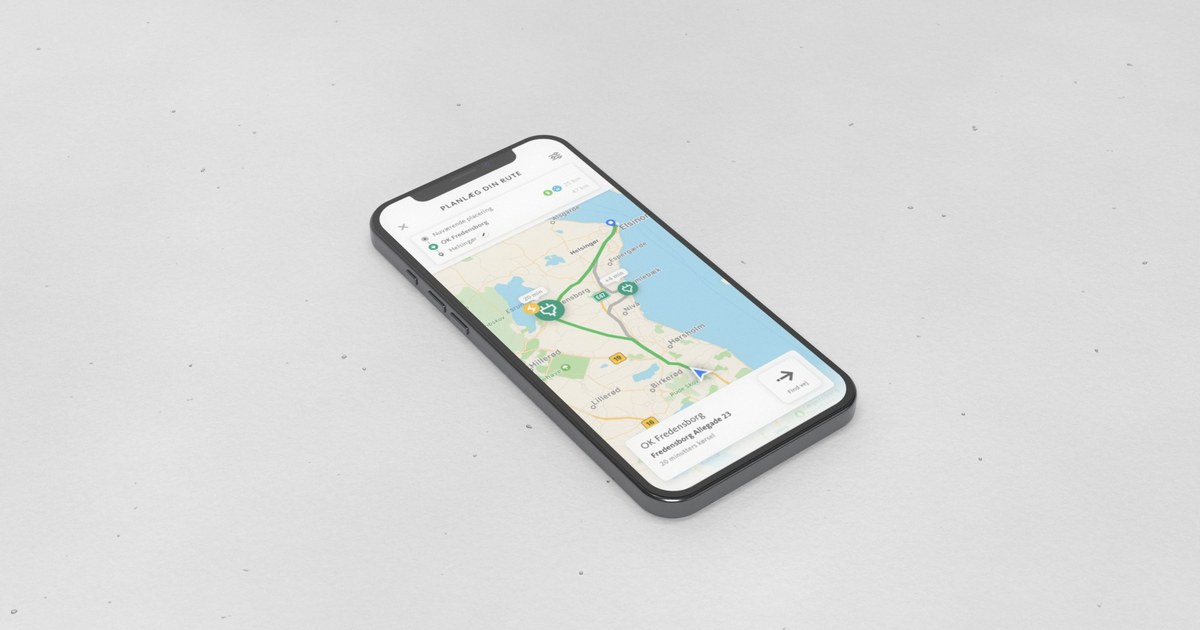
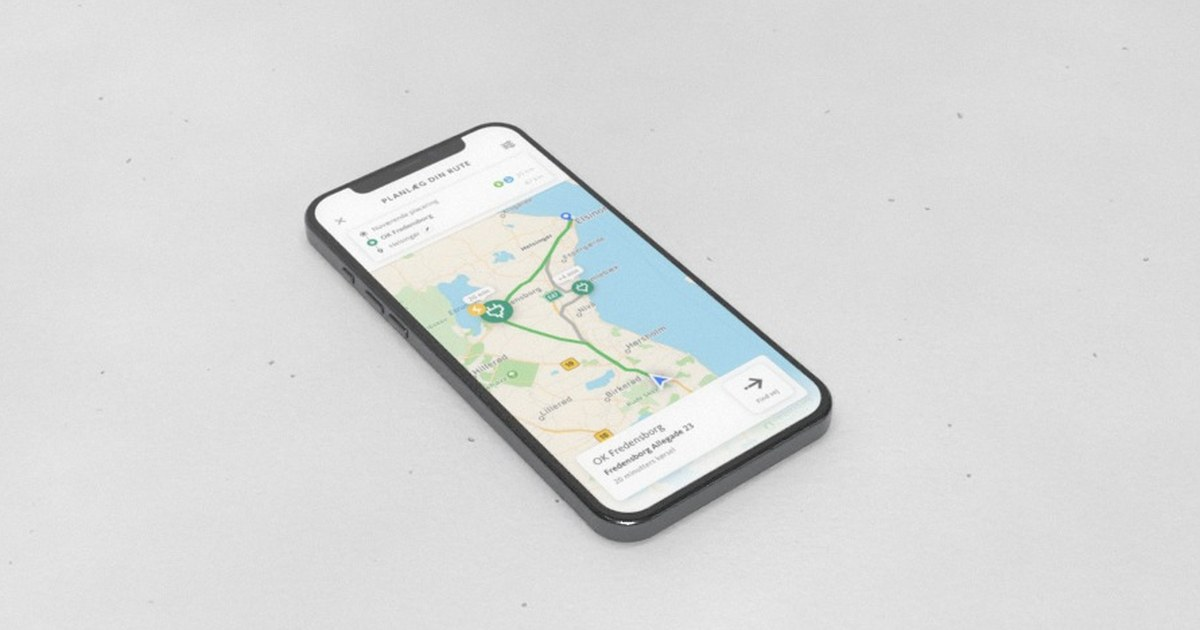
TV2 and OK: the header shot from the plate's own camera, so their pictures travel on a desk too (work in progress)
The two header pictures in this commit are test-quality stand-ins; the
full renders replace them before this is published.

Claude-Session: https://claude.ai/code/session_01TWSyw7ZJuA1HWZNDHNnh3M

Changed region(s): [[0.2467, 0.181, 0.74, 0.8746]]

diff --git a/css/styles.css b/css/styles.css
@@ -1591,24 +1591,19 @@ p:not(.crumb) a,
 
 /* A case's picture is the third: the plate on the work wall and the header
    of its case are one picture in two places, so it travels from the one to
-   the other, and its words go with it. The two tall plates do not make the
-   trip on a desk, where their header is a different, wider shot; below the
-   columns every plate and its header are the same cut, and all six go. */
+   the other, and its words go with it. */
 .case--economic > .case__cover, .hero--economic > .hero__cover { view-transition-name: cover-economic; }
 .case--trackman > .case__cover, .hero--trackman > .hero__cover { view-transition-name: cover-trackman; }
 .case--donkey > .case__cover, .hero--donkey > .hero__cover { view-transition-name: cover-donkey; }
 .case--theorg > .case__cover, .hero--theorg > .hero__cover { view-transition-name: cover-theorg; }
+.case--tv2 > .case__cover, .hero--tv2 > .hero__cover { view-transition-name: cover-tv2; }
+.case--ok > .case__cover, .hero--ok > .hero__cover { view-transition-name: cover-ok; }
 .case--economic > .case__caption, .hero--economic > .hero__caption { view-transition-name: words-economic; }
 .case--trackman > .case__caption, .hero--trackman > .hero__caption { view-transition-name: words-trackman; }
 .case--donkey > .case__caption, .hero--donkey > .hero__caption { view-transition-name: words-donkey; }
 .case--theorg > .case__caption, .hero--theorg > .hero__caption { view-transition-name: words-theorg; }
-
-@media (max-width: 1100px) {
-	.case--tv2 > .case__cover, .hero--tv2 > .hero__cover { view-transition-name: cover-tv2; }
-	.case--ok > .case__cover, .hero--ok > .hero__cover { view-transition-name: cover-ok; }
-	.case--tv2 > .case__caption, .hero--tv2 > .hero__caption { view-transition-name: words-tv2; }
-	.case--ok > .case__caption, .hero--ok > .hero__caption { view-transition-name: words-ok; }
-}
+.case--tv2 > .case__caption, .hero--tv2 > .hero__caption { view-transition-name: words-tv2; }
+.case--ok > .case__caption, .hero--ok > .hero__caption { view-transition-name: words-ok; }
 
 .case > .case__cover, .hero > .hero__cover { view-transition-class: travelling-cover; }
 .case > .case__caption, .hero > .hero__caption { view-transition-class: travelling-words; }
@@ -1668,4 +1663,6 @@ p:not(.crumb) a,
 	::view-transition-image-pair(cover-trackman) { --pull: 0.82; }
 	::view-transition-image-pair(cover-donkey) { --pull: 0.8; }
 	::view-transition-image-pair(cover-theorg) { --pull: 0.8; }
+	::view-transition-image-pair(cover-tv2) { --pull: 1; }
+	::view-transition-image-pair(cover-ok) { --pull: 1; }
 }

diff --git a/notes/building-to-learn/index.html b/notes/building-to-learn/index.html
@@ -34,7 +34,7 @@
 	<link rel="preload" href="../../fonts/switzer-300.woff2" as="font" type="font/woff2" crossorigin>
 	<link rel="preload" href="../../fonts/switzer-500.woff2" as="font" type="font/woff2" crossorigin>
 
-	<link rel="stylesheet" href="../../css/styles.css?v=4ba4c71d">
+	<link rel="stylesheet" href="../../css/styles.css?v=d16b122a">
 	<link rel="stylesheet" href="../notes.css?v=4695db5c">
 
 	<!-- The next page is built when a link is hovered or pressed, so the
@@ -87,7 +87,7 @@
 			<div class="col-8 stack measure">
 				<p>At e-conomic this work is called AI enablement, and my part of it has been the prototyping side. Not making prototypes: making the harness that lets the organisation learn faster, with prototypes built on the design system and the principles the system is built with.</p>
 				<p>The harness is wired to the design system on GitHub, and it explains the design system and its principles and patterns to any model before it draws. It is for PMs, UXers and product teams in general: you can get AI to create a prototype from an idea, a feature request or a PRD. A prototype built this way is an experiment wearing the product's own clothes: real enough to learn from, cheap enough to throw away when it has answered. That is the whole point of building to learn. The throwing away has to be painless, or you start defending the prototype instead of the user.</p>
-				<p>The page you are reading runs on the same architecture. One <a href="../../css/styles.css?v=4ba4c71d">stylesheet</a> as the truth, a <a href="../../system/">system page</a> that documents it, a check that fails anything outside it, and an AI building within those constraints. Teaching a machine your system turns out to be the same discipline as keeping one.</p>
+				<p>The page you are reading runs on the same architecture. One <a href="../../css/styles.css?v=d16b122a">stylesheet</a> as the truth, a <a href="../../system/">system page</a> that documents it, a check that fails anything outside it, and an AI building within those constraints. Teaching a machine your system turns out to be the same discipline as keeping one.</p>
 			</div>
 		</div>
 

diff --git a/notes/built-and-maintained-with-ai/index.html b/notes/built-and-maintained-with-ai/index.html
@@ -34,7 +34,7 @@
 	<link rel="preload" href="../../fonts/switzer-300.woff2" as="font" type="font/woff2" crossorigin>
 	<link rel="preload" href="../../fonts/switzer-500.woff2" as="font" type="font/woff2" crossorigin>
 
-	<link rel="stylesheet" href="../../css/styles.css?v=4ba4c71d">
+	<link rel="stylesheet" href="../../css/styles.css?v=d16b122a">
 	<link rel="stylesheet" href="../notes.css?v=4695db5c">
 
 	<!-- The next page is built when a link is hovered or pressed, so the
@@ -85,7 +85,7 @@
 		<div class="band">
 			<h2 class="col-4 stick label">The architecture</h2>
 			<div class="col-8 stack measure">
-				<p>The <a href="../../css/styles.css?v=4ba4c71d">stylesheet</a> holds every value of the design: the colours, the sizes, the spaces, the timing of the motion. Next to each value, a comment says why it is what it is.</p>
+				<p>The <a href="../../css/styles.css?v=d16b122a">stylesheet</a> holds every value of the design: the colours, the sizes, the spaces, the timing of the motion. Next to each value, a comment says why it is what it is.</p>
 				<p>The <a href="../../system/">documentation</a> is a page on the site. It stores no values of its own; when you open it, it reads the current ones out of the stylesheet and shows them. It cannot be out of date, the same way a mirror cannot show last week.</p>
 				<p>The checker is a small program that reads every page and stops any change that breaks a rule it can measure: a colour outside the palette, a space off the scale, a line of text wider than comfortable reading.</p>
 				<p>And the agent reads all of it before it builds. This is why the written words matter more than ever. Guidelines used to be reference material for people. When an AI does the building, they become what it decides with: why something exists, how it should work, what it should communicate, what a person should feel. A reason that never got written down is a reason the agent cannot build from.</p>

diff --git a/system/index.html b/system/index.html
@@ -23,7 +23,7 @@
 	<!-- The site's own stylesheet, not a copy of it. Every swatch, measurement
 	     and component below is rendered by the same rules the portfolio uses,
 	     so this page cannot describe something the site no longer does. -->
-	<link rel="stylesheet" href="../css/styles.css?v=4ba4c71d">
+	<link rel="stylesheet" href="../css/styles.css?v=d16b122a">
 	<link rel="stylesheet" href="./system.css?v=d435ed0d">
 
 	<script>document.documentElement.classList.remove('no-js');</script>

diff --git a/work/donkey/index.html b/work/donkey/index.html
@@ -34,7 +34,7 @@
 
 	<link rel="preload" href="../../fonts/switzer-300.woff2" as="font" type="font/woff2" crossorigin>
 	<link rel="preload" href="../../fonts/switzer-500.woff2" as="font" type="font/woff2" crossorigin>
-	<link rel="stylesheet" href="../../css/styles.css?v=4ba4c71d">
+	<link rel="stylesheet" href="../../css/styles.css?v=d16b122a">
 
 	<!-- The next page is built when a link is hovered or pressed, so the
 	     crossing is instant and the develop starts the moment it is seen. -->

diff --git a/work/economic/index.html b/work/economic/index.html
@@ -34,7 +34,7 @@
 
 	<link rel="preload" href="../../fonts/switzer-300.woff2" as="font" type="font/woff2" crossorigin>
 	<link rel="preload" href="../../fonts/switzer-500.woff2" as="font" type="font/woff2" crossorigin>
-	<link rel="stylesheet" href="../../css/styles.css?v=4ba4c71d">
+	<link rel="stylesheet" href="../../css/styles.css?v=d16b122a">
 
 	<!-- The next page is built when a link is hovered or pressed, so the
 	     crossing is instant and the develop starts the moment it is seen. -->

diff --git a/work/ok/index.html b/work/ok/index.html
@@ -34,7 +34,7 @@
 
 	<link rel="preload" href="../../fonts/switzer-300.woff2" as="font" type="font/woff2" crossorigin>
 	<link rel="preload" href="../../fonts/switzer-500.woff2" as="font" type="font/woff2" crossorigin>
-	<link rel="stylesheet" href="../../css/styles.css?v=4ba4c71d">
+	<link rel="stylesheet" href="../../css/styles.css?v=d16b122a">
 
 	<!-- The next page is built when a link is hovered or pressed, so the
 	     crossing is instant and the develop starts the moment it is seen. -->

diff --git a/work/theorg/index.html b/work/theorg/index.html
@@ -34,7 +34,7 @@
 
 	<link rel="preload" href="../../fonts/switzer-300.woff2" as="font" type="font/woff2" crossorigin>
 	<link rel="preload" href="../../fonts/switzer-500.woff2" as="font" type="font/woff2" crossorigin>
-	<link rel="stylesheet" href="../../css/styles.css?v=4ba4c71d">
+	<link rel="stylesheet" href="../../css/styles.css?v=d16b122a">
 
 	<!-- The next page is built when a link is hovered or pressed, so the
 	     crossing is instant and the develop starts the moment it is seen. -->

diff --git a/work/trackman/index.html b/work/trackman/index.html
@@ -34,7 +34,7 @@
 
 	<link rel="preload" href="../../fonts/switzer-300.woff2" as="font" type="font/woff2" crossorigin>
 	<link rel="preload" href="../../fonts/switzer-500.woff2" as="font" type="font/woff2" crossorigin>
-	<link rel="stylesheet" href="../../css/styles.css?v=4ba4c71d">
+	<link rel="stylesheet" href="../../css/styles.css?v=d16b122a">
 
 	<!-- The next page is built when a link is hovered or pressed, so the
 	     crossing is instant and the develop starts the moment it is seen. -->

diff --git a/work/tv2/index.html b/work/tv2/index.html
@@ -34,7 +34,7 @@
 
 	<link rel="preload" href="../../fonts/switzer-300.woff2" as="font" type="font/woff2" crossorigin>
 	<link rel="preload" href="../../fonts/switzer-500.woff2" as="font" type="font/woff2" crossorigin>
-	<link rel="stylesheet" href="../../css/styles.css?v=4ba4c71d">
+	<link rel="stylesheet" href="../../css/styles.css?v=d16b122a">
 
 	<!-- The next page is built when a link is hovered or pressed, so the
 	     crossing is instant and the develop starts the moment it is seen. -->

diff --git a/work/index.html b/work/index.html
@@ -36,7 +36,7 @@
 
 	<link rel="preload" href="../fonts/switzer-300.woff2" as="font" type="font/woff2" crossorigin>
 	<link rel="preload" href="../fonts/switzer-500.woff2" as="font" type="font/woff2" crossorigin>
-	<link rel="stylesheet" href="../css/styles.css?v=4ba4c71d">
+	<link rel="stylesheet" href="../css/styles.css?v=d16b122a">
 
 	<!-- The next page is built when a link is hovered or pressed, so the
 	     crossing is instant and the develop starts the moment it is seen. -->

diff --git a/404.html b/404.html
@@ -21,7 +21,7 @@
 	<link rel="preload" href="./fonts/switzer-300.woff2" as="font" type="font/woff2" crossorigin>
 	<link rel="preload" href="./fonts/switzer-500.woff2" as="font" type="font/woff2" crossorigin>
 
-	<link rel="stylesheet" href="/css/styles.css?v=4ba4c71d">
+	<link rel="stylesheet" href="/css/styles.css?v=d16b122a">
 
 	<!-- The next page is built when a link is hovered or pressed, so the
 	     crossing is instant and the develop starts the moment it is seen. -->
